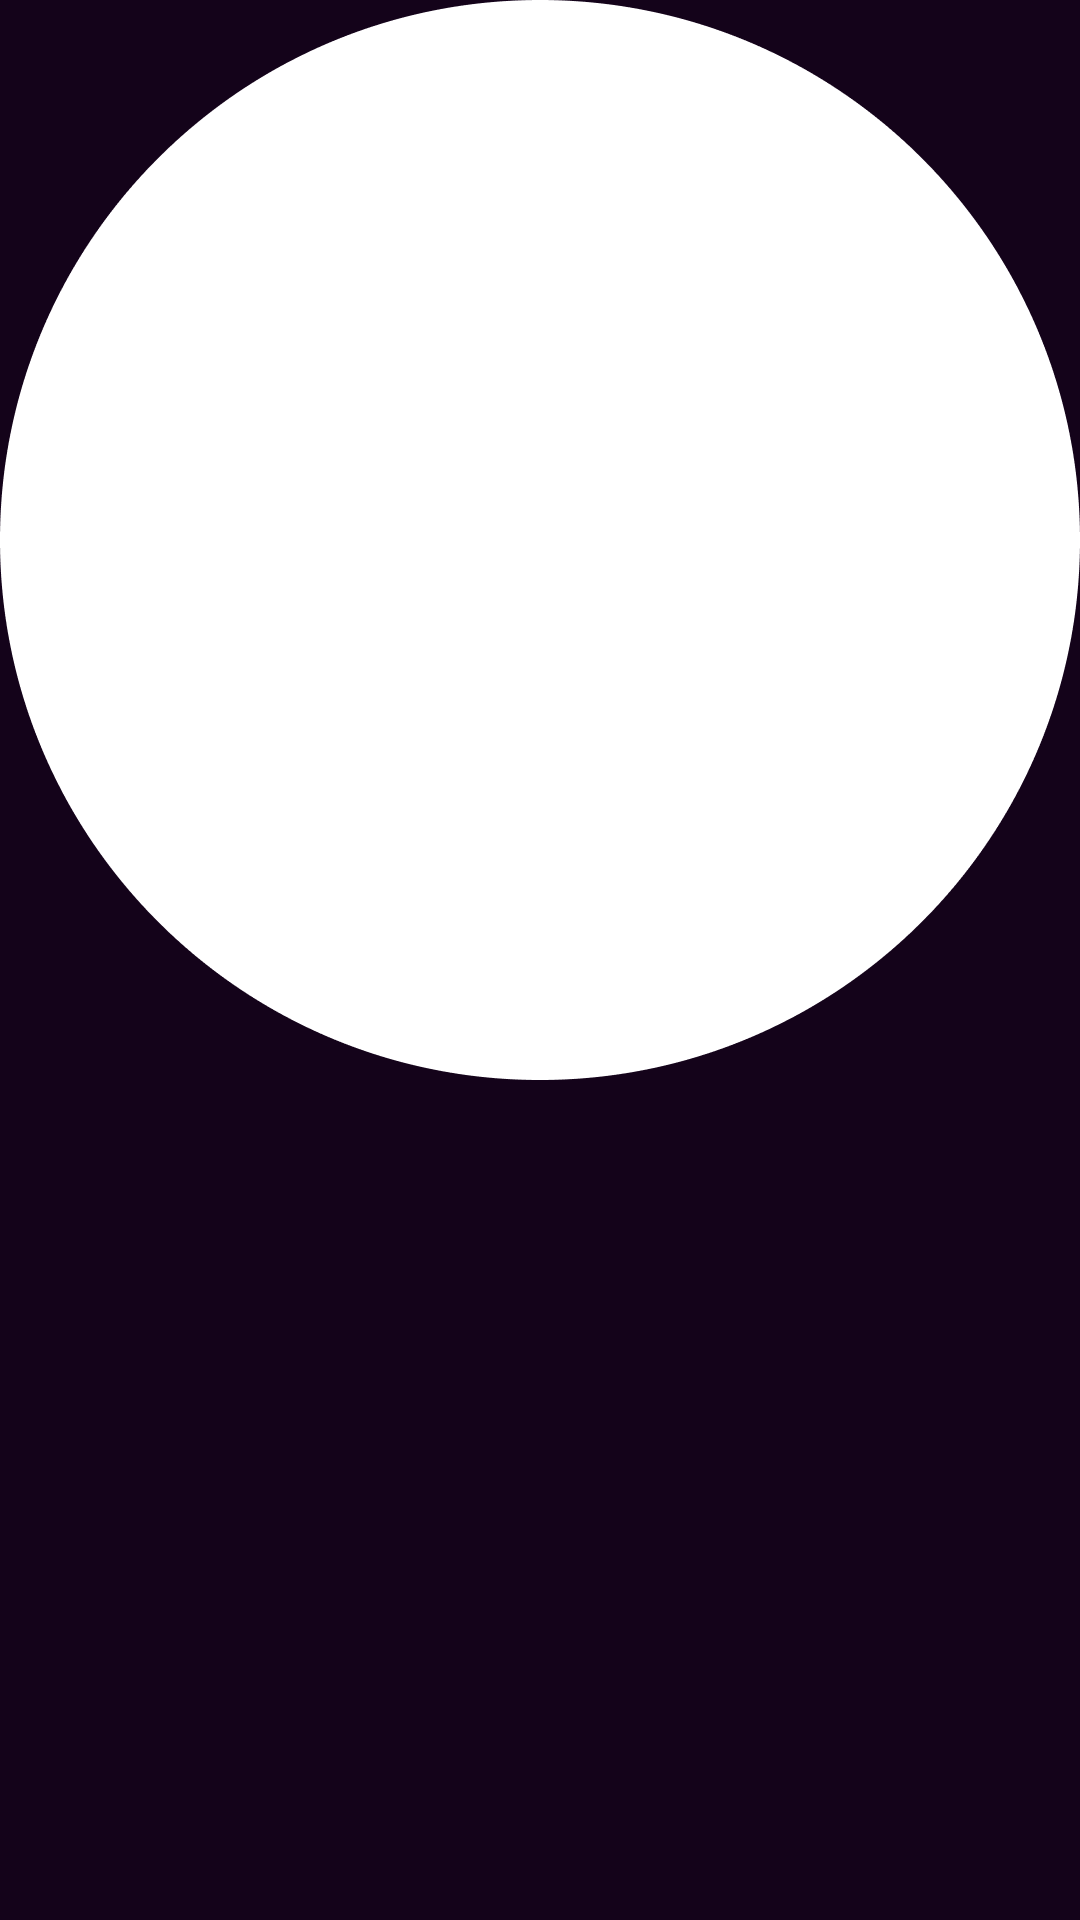
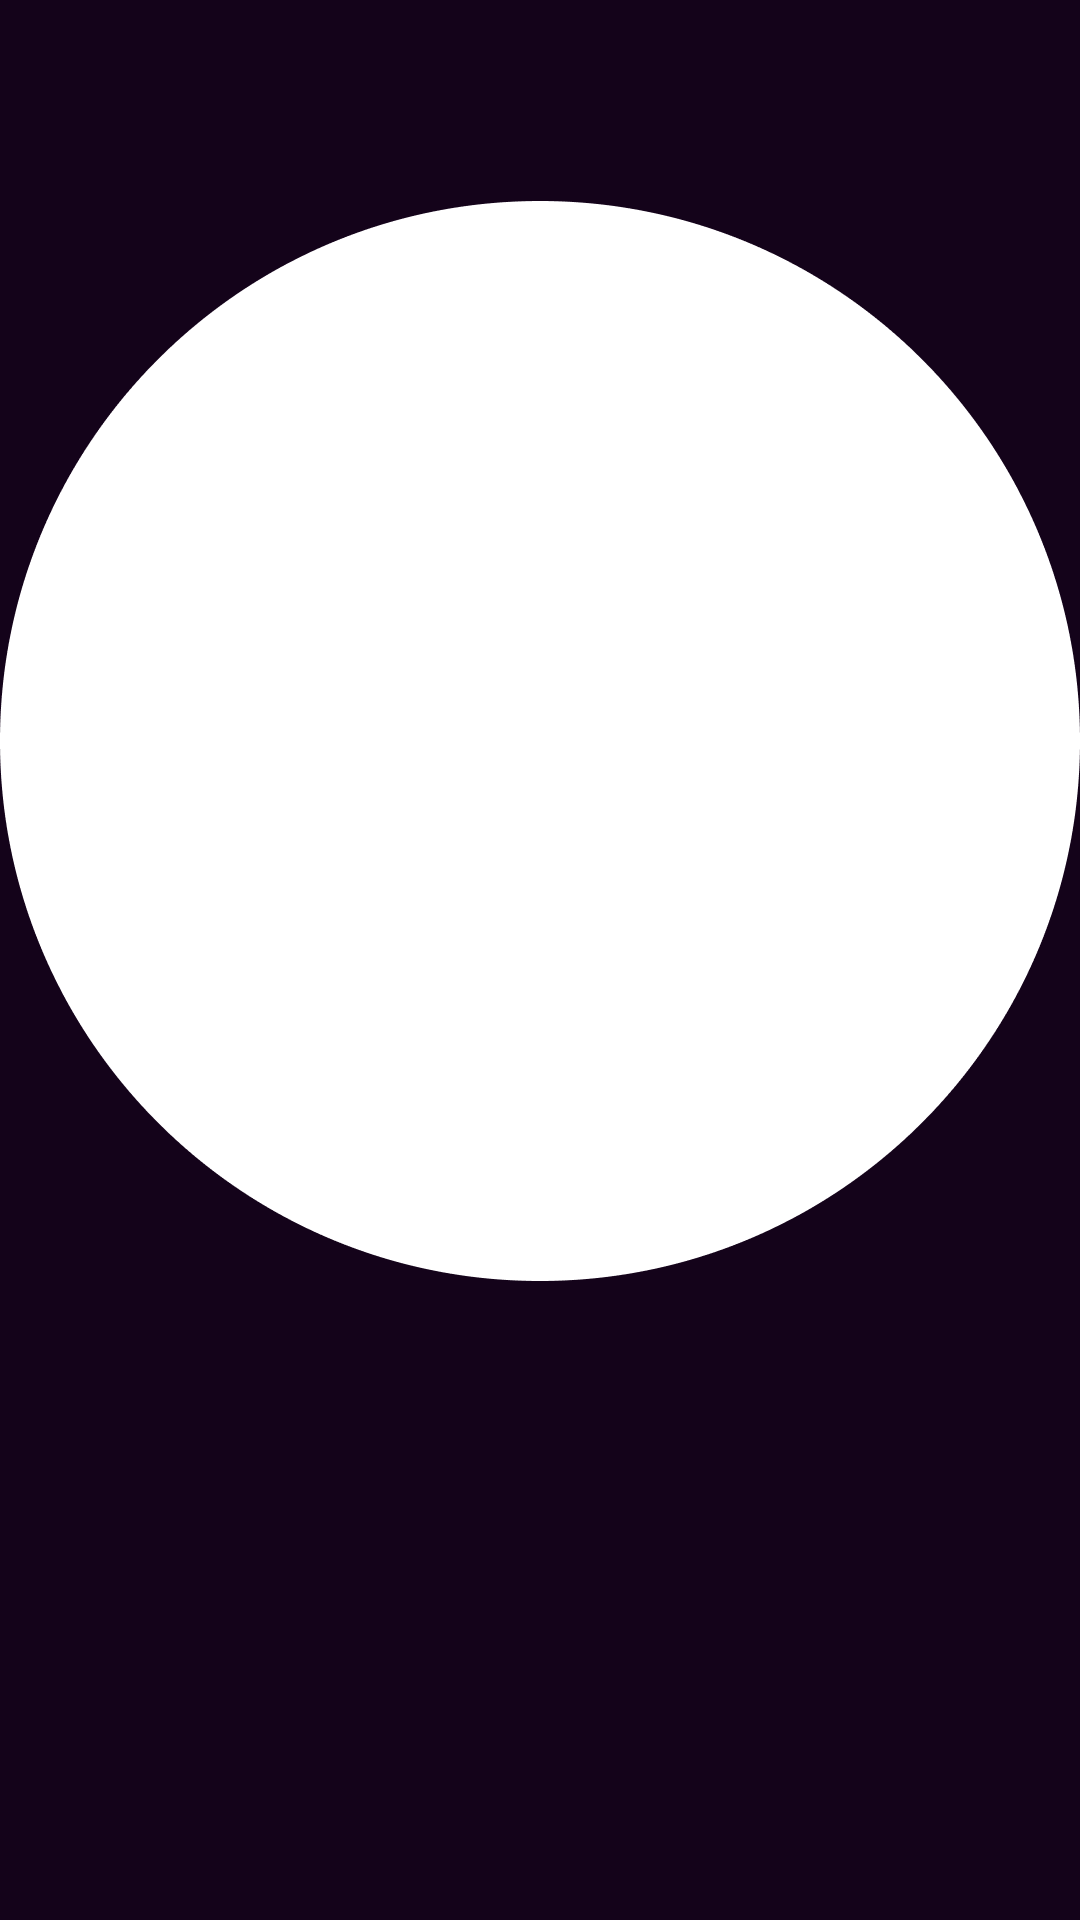
frame

Changed region(s): [[0.0, 0.0, 1.0, 0.6875]]

diff --git a/index.html b/index.html
@@ -1,8 +1,8 @@
-<!-- //(v.0.5) ...................................................antigravity.id..........................................................-->
+<!-- //(v.0.6) ...................................................antigravity.id..........................................................-->
 <!DOCTYPE html>
 <html>
 <head>
-	<title>(v.0.5) IQOS CLOVE</title>
+	<title>(v.0.6) IQOS CLOVE</title>
 
     <meta name="viewport" content="width=device-width, initial-scale=1.0, maximum-scale=1.0, user-scalable=no" />
 	<link rel="shortcut icon" href="assets/images/icon-192.png"/>

diff --git a/css/main.css b/css/main.css
@@ -170,3 +170,7 @@ button:hover {
     border-radius: 5px;
     box-shadow: 0 2px 5px rgba(0,0,0,0.1);
 }
+
+.gameplay .section{
+    top: 10.4% !important;
+}
